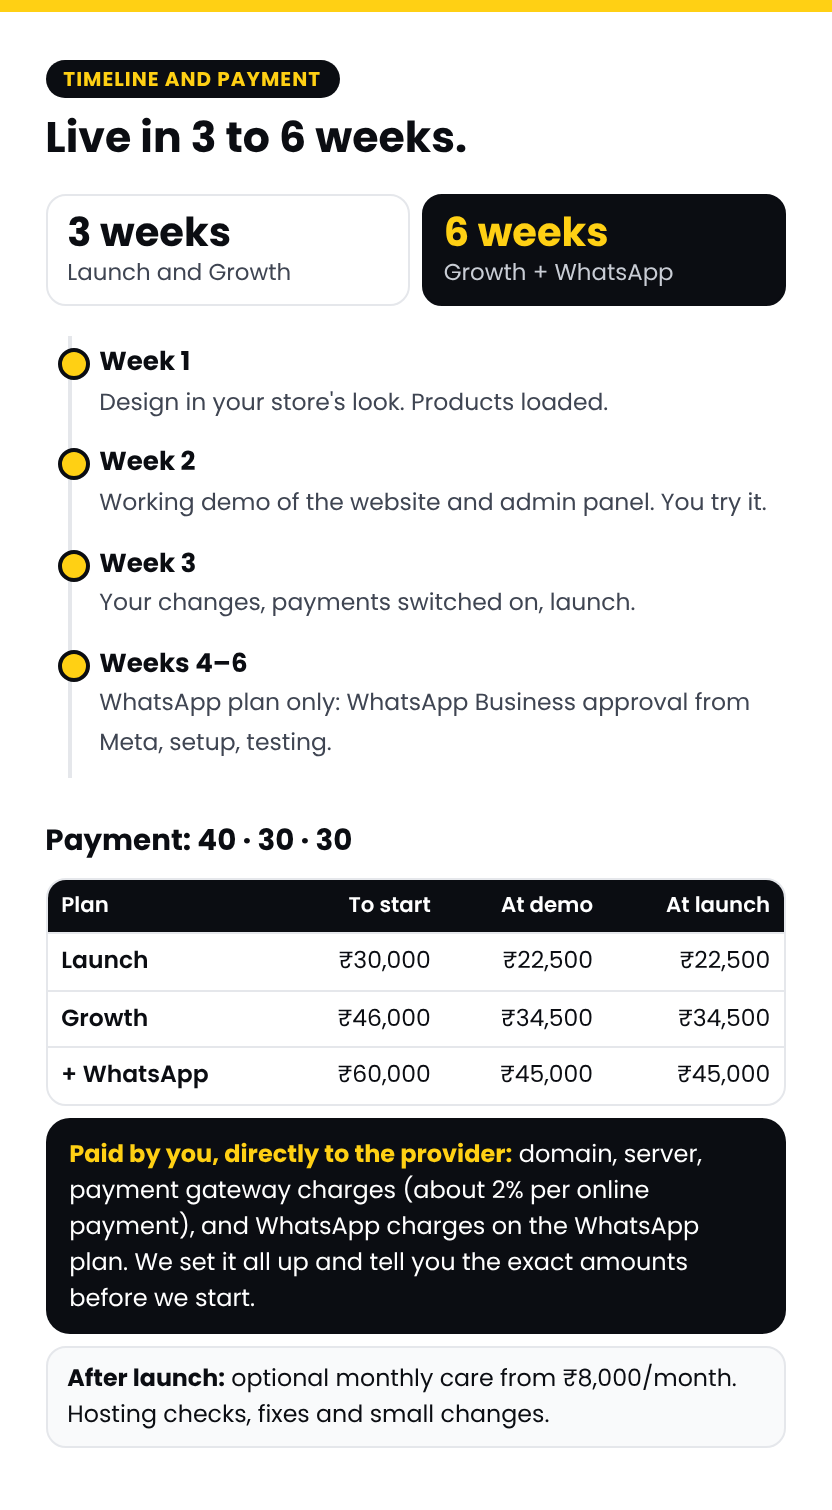
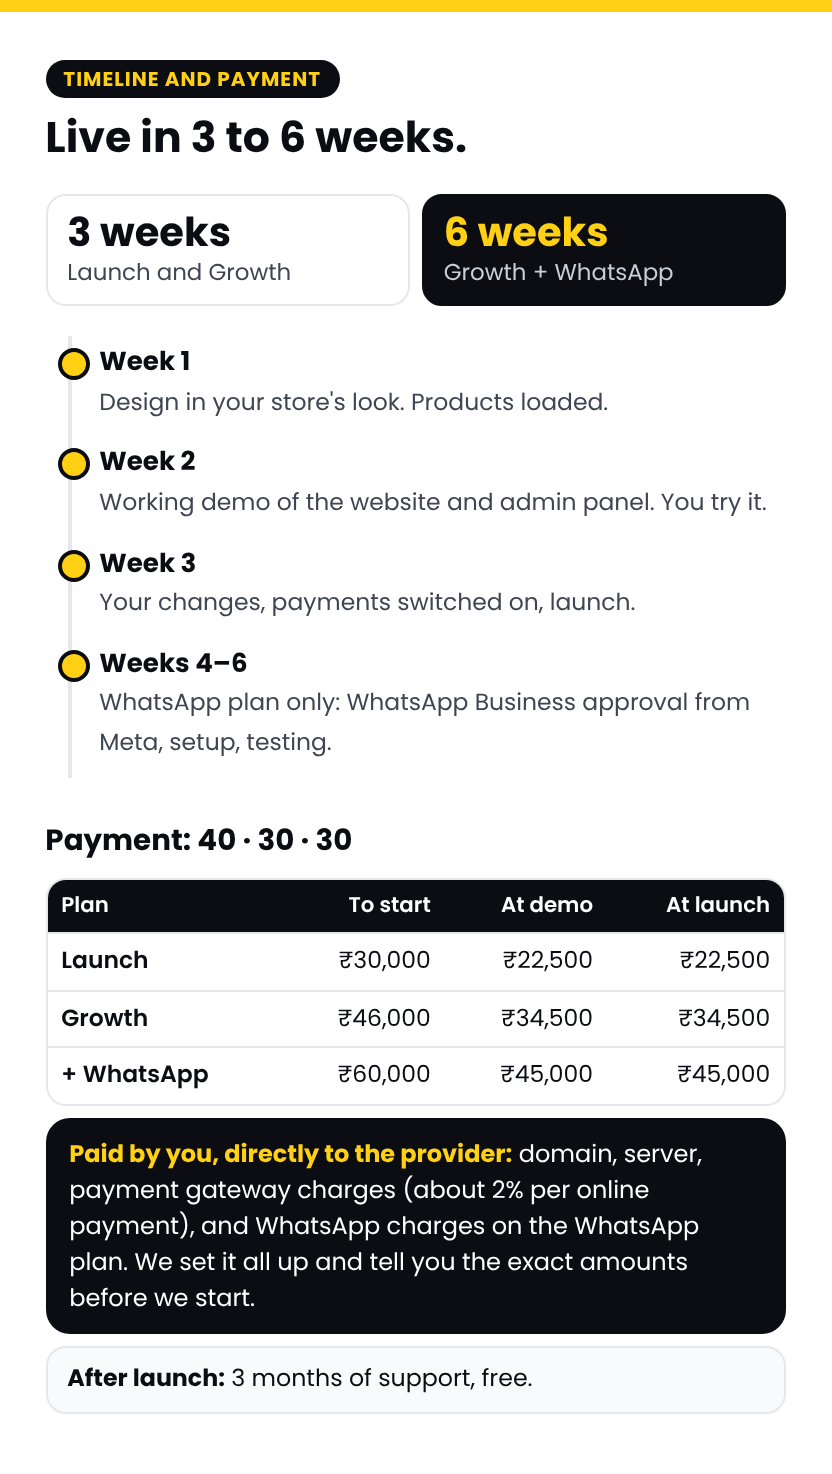
Kirana proposal: 3 months free support instead of monthly care price
Claude-Session: https://claude.ai/code/session_019gSuA1pXvK91U992uEGxpi

Changed region(s): [[0.0312, 0.0312, 0.9688, 0.9674]]

diff --git a/proposals/src/Outgrid_Kirana_Store_Website_Proposal.html b/proposals/src/Outgrid_Kirana_Store_Website_Proposal.html
@@ -292,7 +292,7 @@
   </table>
 
   <div class="fees"><b>Paid by you, directly to the provider:</b> domain, server, payment gateway charges (about 2% per online payment), and WhatsApp charges on the WhatsApp plan. We set it all up and tell you the exact amounts before we start.</div>
-  <div class="note"><b>After launch:</b> optional monthly care from ₹8,000/month. Hosting checks, fixes and small changes.</div>
+  <div class="note"><b>After launch:</b> 3 months of support, free.</div>
 </section>
 
 <!-- 5 · PROMISES, NEEDS, NEXT STEP -->
